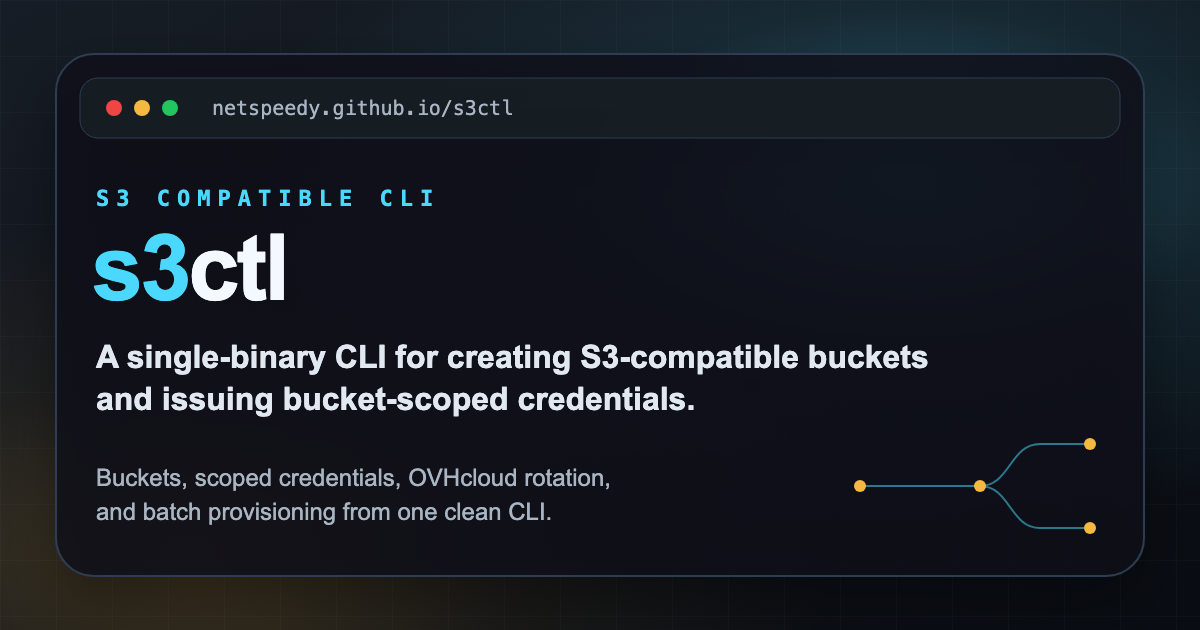
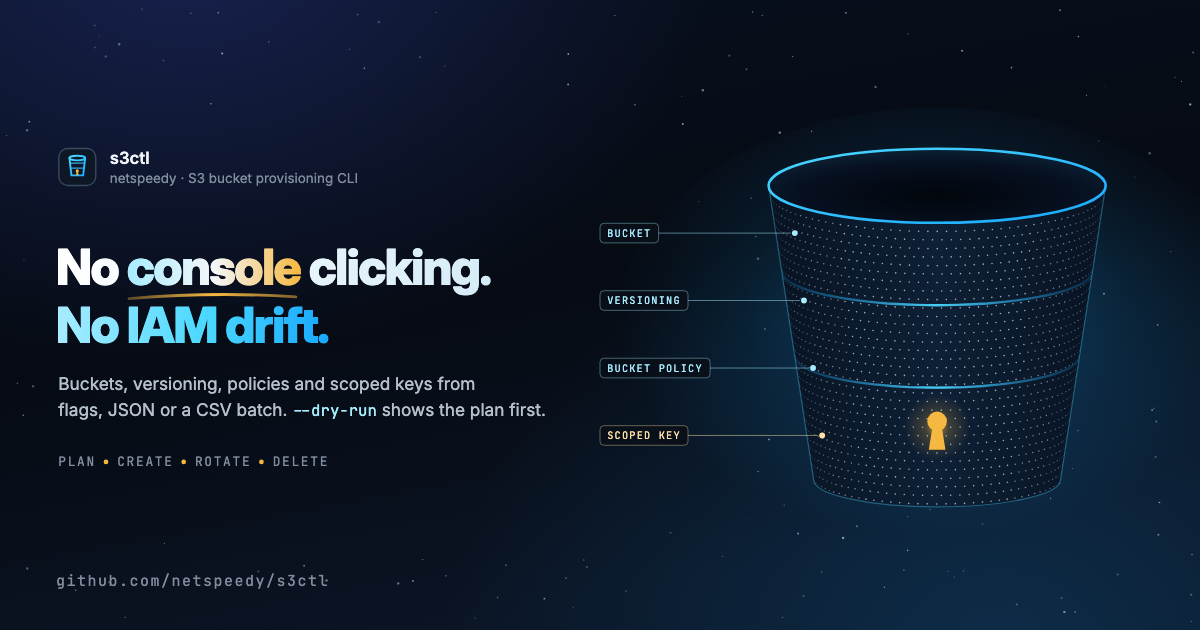
docs: generate the social cards from the README hero (#121)
The project website still shared the old artwork as its og:image, and GitHub had no
social preview set, so links to the repo showed GitHub's generated default card. The hero
generator now writes both cards from the hero itself: the same copy column and scene,
recomposed and frozen at the reduced-motion rest frame, with the repo's address along the
bottom.

website/public/og-image.png (with its SVG) is 1200x630, the size the site's meta tags and
check script already expect. assets/s3ctl-social-preview.png is 1280x640 for GitHub's social
preview, which has no API, so it gets uploaded by hand in the repository settings. The PNGs
are rendered with headless Chrome, which draws the embedded fonts exactly, and make
readme-hero rebuilds the hero and both cards together. The og:image and twitter:image cache
keys are bumped so link previews refetch, and their alt text describes the new card.

The hero itself is unchanged: rebuilding it gives the same bytes. The website's check script
and build pass with the new card. The README's note on rebuilding the banner now covers the
cards.

diff --git a/website/index.html b/website/index.html
@@ -14,17 +14,17 @@
     <meta property="og:title" content="s3ctl" />
     <meta property="og:description" content="A single-binary CLI for creating S3-compatible buckets and issuing bucket-scoped credentials." />
     <meta property="og:url" content="https://netspeedy.github.io/s3ctl/" />
-    <meta property="og:image" content="https://netspeedy.github.io/s3ctl/og-image.png?v=1" />
-    <meta property="og:image:secure_url" content="https://netspeedy.github.io/s3ctl/og-image.png?v=1" />
+    <meta property="og:image" content="https://netspeedy.github.io/s3ctl/og-image.png?v=2" />
+    <meta property="og:image:secure_url" content="https://netspeedy.github.io/s3ctl/og-image.png?v=2" />
     <meta property="og:image:type" content="image/png" />
     <meta property="og:image:width" content="1200" />
     <meta property="og:image:height" content="630" />
-    <meta property="og:image:alt" content="s3ctl share card with the wordmark and tagline on a dark terminal background." />
+    <meta property="og:image:alt" content="s3ctl share card: No console clicking. No IAM drift. Beside it, the dotted bucket with its four provisioning steps." />
     <meta name="twitter:card" content="summary_large_image" />
     <meta name="twitter:title" content="s3ctl" />
     <meta name="twitter:description" content="A single-binary CLI for creating S3-compatible buckets and issuing bucket-scoped credentials." />
-    <meta name="twitter:image" content="https://netspeedy.github.io/s3ctl/og-image.png?v=1" />
-    <meta name="twitter:image:alt" content="s3ctl share card with the wordmark and tagline on a dark terminal background." />
+    <meta name="twitter:image" content="https://netspeedy.github.io/s3ctl/og-image.png?v=2" />
+    <meta name="twitter:image:alt" content="s3ctl share card: No console clicking. No IAM drift. Beside it, the dotted bucket with its four provisioning steps." />
     <title>s3ctl | Bucket provisioning for operators</title>
     <script type="module" src="./main.js"></script>
   </head>

diff --git a/scripts/readme/build_readme_hero.py b/scripts/readme/build_readme_hero.py
@@ -17,8 +17,12 @@ from __future__ import annotations
 
 import base64
 import math
+import os
 import random
 import re
+import shutil
+import subprocess
+import tempfile
 import urllib.parse
 import urllib.request
 import xml.etree.ElementTree as ET
@@ -610,15 +614,162 @@ def build_svg(spec: dict = CARD) -> str:
     return "\n".join(lines) + "\n"
 
 
+# Social cards
+
+# Both cards are the hero recomposed and frozen at its rest frame. The website's og:image is
+# 1200x630, the size link previews expect, and is only written when the repo has a website.
+# The GitHub social preview is 1280x640 and is uploaded by hand under Settings > General >
+# Social preview, since GitHub has no API for it.
+REPO = "s3ctl"
+OG_CARD = ROOT / "website" / "public" / "og-image"
+PREVIEW_CARD = ROOT / "assets" / f"{REPO}-social-preview"
+SVG_NS = "http://www.w3.org/2000/svg"
+CHROME_CANDIDATES = (
+    "/Applications/Google Chrome.app/Contents/MacOS/Google Chrome",
+    "/Applications/Chromium.app/Contents/MacOS/Chromium",
+    "google-chrome",
+    "chromium",
+    "chromium-browser",
+)
+
+
+def build_social_svg(hero: str, width: int, height: int) -> str:
+    """The hero's copy column on the left and its scene on the right, scaled to fill the card."""
+    ET.register_namespace("", SVG_NS)
+    root = ET.fromstring(hero)
+
+    def tag(name: str) -> str:
+        return f"{{{SVG_NS}}}{name}"
+
+    children = list(root)
+    defs = root.find(tag("defs"))
+    style = defs.find(tag("style"))
+    style.text = (style.text or "") + "  *{animation:none !important}\n    "
+    frame = next(c for c in children if c.get("clip-path") == "url(#frame)")
+    # Everything after the clipped group, bar the frame's outline, is the copy column.
+    copy_els = [
+        c
+        for c in children[children.index(frame) + 1 :]
+        if not (c.tag == tag("rect") and c.get("fill") == "none")
+    ]
+    background = list(frame)
+    nebulae = [c for c in background[1:3] if c.tag == tag("ellipse")]
+    scene_els = background[5:]  # after the base, the two nebulae and the two star groups
+
+    wide = width >= 1280
+    s_copy, s_scene = (1.2, 1.04) if wide else (1.12, 0.98)
+    margin = 60 if wide else 56
+    card = ET.Element(
+        tag("svg"),
+        {
+            "viewBox": f"0 0 {width} {height}",
+            "width": str(width),
+            "height": str(height),
+            "role": "img",
+            "aria-labelledby": "title desc",
+        },
+    )
+    card.extend([root.find(tag("title")), root.find(tag("desc")), defs])
+    ET.SubElement(
+        card, tag("rect"), {"width": str(width), "height": str(height), "fill": "url(#spaceBg)"}
+    )
+    glow = ET.SubElement(
+        card, tag("g"), {"transform": f"scale({width / 1200:.4f} {height / 400:.4f})"}
+    )
+    glow.extend(nebulae)
+    rng = random.Random(STAR_SEED)
+    stars = ET.SubElement(card, tag("g"), {"fill": "#CFE6FF"})
+    placed = 0
+    while placed < 150:
+        x, y = rng.uniform(6, width - 6), rng.uniform(6, height - 6)
+        if 40 <= x <= 680 and 110 <= y <= 530:  # keep the copy column clear
+            continue
+        placed += 1
+        radius = rng.choice([0.6, 0.7, 0.8, 0.9, 1.0, 1.2])
+        opacity = f"{rng.uniform(0.2, 0.65):.2f}"
+        ET.SubElement(
+            stars, tag("circle"), {"cx": num(x), "cy": num(y), "r": num(radius), "opacity": opacity}
+        )
+    scene_x = width - 12 - 1200 * s_scene
+    scene_y = (height - 400 * s_scene) / 2 + 6
+    scene = ET.SubElement(
+        card, tag("g"), {"transform": f"translate({num(scene_x)} {num(scene_y)}) scale({s_scene})"}
+    )
+    scene.extend(scene_els)
+    copy_x = margin - 46 * s_copy
+    copy_y = (height - 300 * s_copy) / 2 - 30 * s_copy - 8
+    column = ET.SubElement(
+        card, tag("g"), {"transform": f"translate({num(copy_x)} {num(copy_y)}) scale({s_copy})"}
+    )
+    column.extend(copy_els)
+    footer = ET.SubElement(
+        card,
+        tag("text"),
+        {
+            "class": "mono",
+            "x": str(margin),
+            "y": str(height - 44),
+            "font-size": "15",
+            "letter-spacing": "1.5",
+            "fill": "#808D9E",
+        },
+    )
+    footer.text = f"github.com/netspeedy/{REPO}"
+    return ET.tostring(card, encoding="unicode") + "\n"
+
+
+def render_png(svg_path: Path, png_path: Path, width: int, height: int) -> None:
+    """Screenshot the card in headless Chrome, which renders the embedded fonts exactly."""
+    chrome = os.environ.get("CHROME") or next(
+        (c for c in CHROME_CANDIDATES if Path(c).exists() or shutil.which(c)), None
+    )
+    if not chrome:
+        raise SystemExit("the social cards need Chrome or Chromium to render; set CHROME")
+    with tempfile.TemporaryDirectory() as profile:
+        subprocess.run(
+            [
+                chrome,
+                "--headless=new",
+                "--disable-gpu",
+                "--hide-scrollbars",
+                f"--user-data-dir={profile}",
+                f"--window-size={width},{height}",
+                f"--screenshot={png_path}",
+                svg_path.resolve().as_uri(),
+            ],
+            check=True,
+            capture_output=True,
+        )
+
+
+def write_social_cards(hero: str) -> None:
+    cards = [(PREVIEW_CARD, 1280, 640, False)]
+    if (ROOT / "website").is_dir():
+        cards.insert(0, (OG_CARD, 1200, 630, True))
+    for base, width, height, keep_svg in cards:
+        svg = build_social_svg(hero, width, height)
+        svg = svg.replace("__FONT_FACES__", font_faces(svg))
+        ET.fromstring(svg)
+        base.parent.mkdir(parents=True, exist_ok=True)
+        png = base.with_suffix(".png")
+        with tempfile.TemporaryDirectory() as tmp:
+            svg_path = base.with_suffix(".svg") if keep_svg else Path(tmp) / "card.svg"
+            svg_path.write_text(svg, encoding="utf-8")
+            render_png(svg_path, png, width, height)
+        print(f"Wrote {png.relative_to(ROOT)} ({width}x{height})")
+
+
+
 def main() -> None:
-    svg = build_svg()
-    svg = svg.replace("__FONT_FACES__", font_faces(svg))
+    hero = build_svg()
+    svg = hero.replace("__FONT_FACES__", font_faces(hero))
     if "http://" in svg.replace("http://www.w3.org/2000/svg", "") or "https://" in svg:
         raise SystemExit("external reference found in the hero SVG")
     ET.fromstring(svg)  # well-formed, or this raises
     OUTPUT.parent.mkdir(parents=True, exist_ok=True)
     OUTPUT.write_text(svg, encoding="utf-8")
     print(f"Wrote {OUTPUT.relative_to(ROOT)} ({len(svg.encode()) / 1024:.1f} KiB)")
+    write_social_cards(hero)
 
 
 if __name__ == "__main__":

diff --git a/README.md b/README.md
@@ -273,11 +273,15 @@ make website-build
 make website-capture
 ```
 
-The banner at the top of this page is generated. Edit the copy, layout or timing
-in `scripts/readme/build_readme_hero.py` and run `make readme-hero` to rebuild
-`assets/s3ctl-readme-hero.svg`. It downloads the font subsets from Google Fonts, so
-it needs network access. If you change the headline's words, measure them again
-with `scripts/readme/measure_headline.py`, which explains its own dependencies.
+The banner at the top of this page and the social cards are generated. Edit the
+copy, layout or timing in `scripts/readme/build_readme_hero.py` and run `make
+readme-hero`. That rebuilds `assets/s3ctl-readme-hero.svg`, the website's
+`website/public/og-image.png` and `assets/s3ctl-social-preview.png`, which is the
+image for GitHub's social preview and is uploaded by hand in the repository
+settings. It downloads the font subsets from Google Fonts, so it needs network
+access, and it renders the cards with headless Chrome or Chromium. If you change the
+headline's words, measure them again with `scripts/readme/measure_headline.py`,
+which explains its own dependencies.
 
 Issues and pull requests are welcome. [AGENTS.md](AGENTS.md) has the full
 repository conventions.
